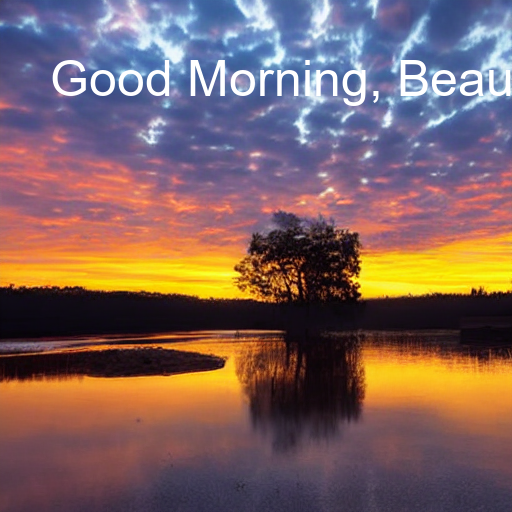
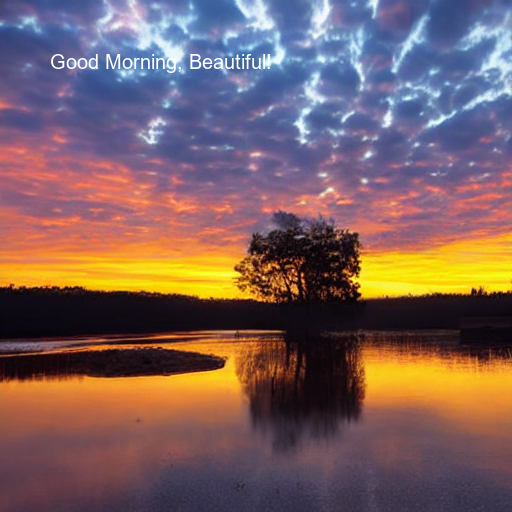
made font more readable

Changed region(s): [[0.0938, 0.0938, 0.75, 0.2188], [0.7812, 0.0938, 1.0, 0.1875]]

diff --git a/add_text.py b/add_text.py
@@ -8,7 +8,7 @@ def add_text_to_image(image_path, text, output_path):
     draw = ImageDraw.Draw(image)
 
     # Load a font (use a TTF font you have or download one)
-    font = ImageFont.truetype("arial.ttf", 50)
+    font = ImageFont.truetype("arial.ttf", 20)
 
     # Define the position and text color
     text_position = (50, 50)
